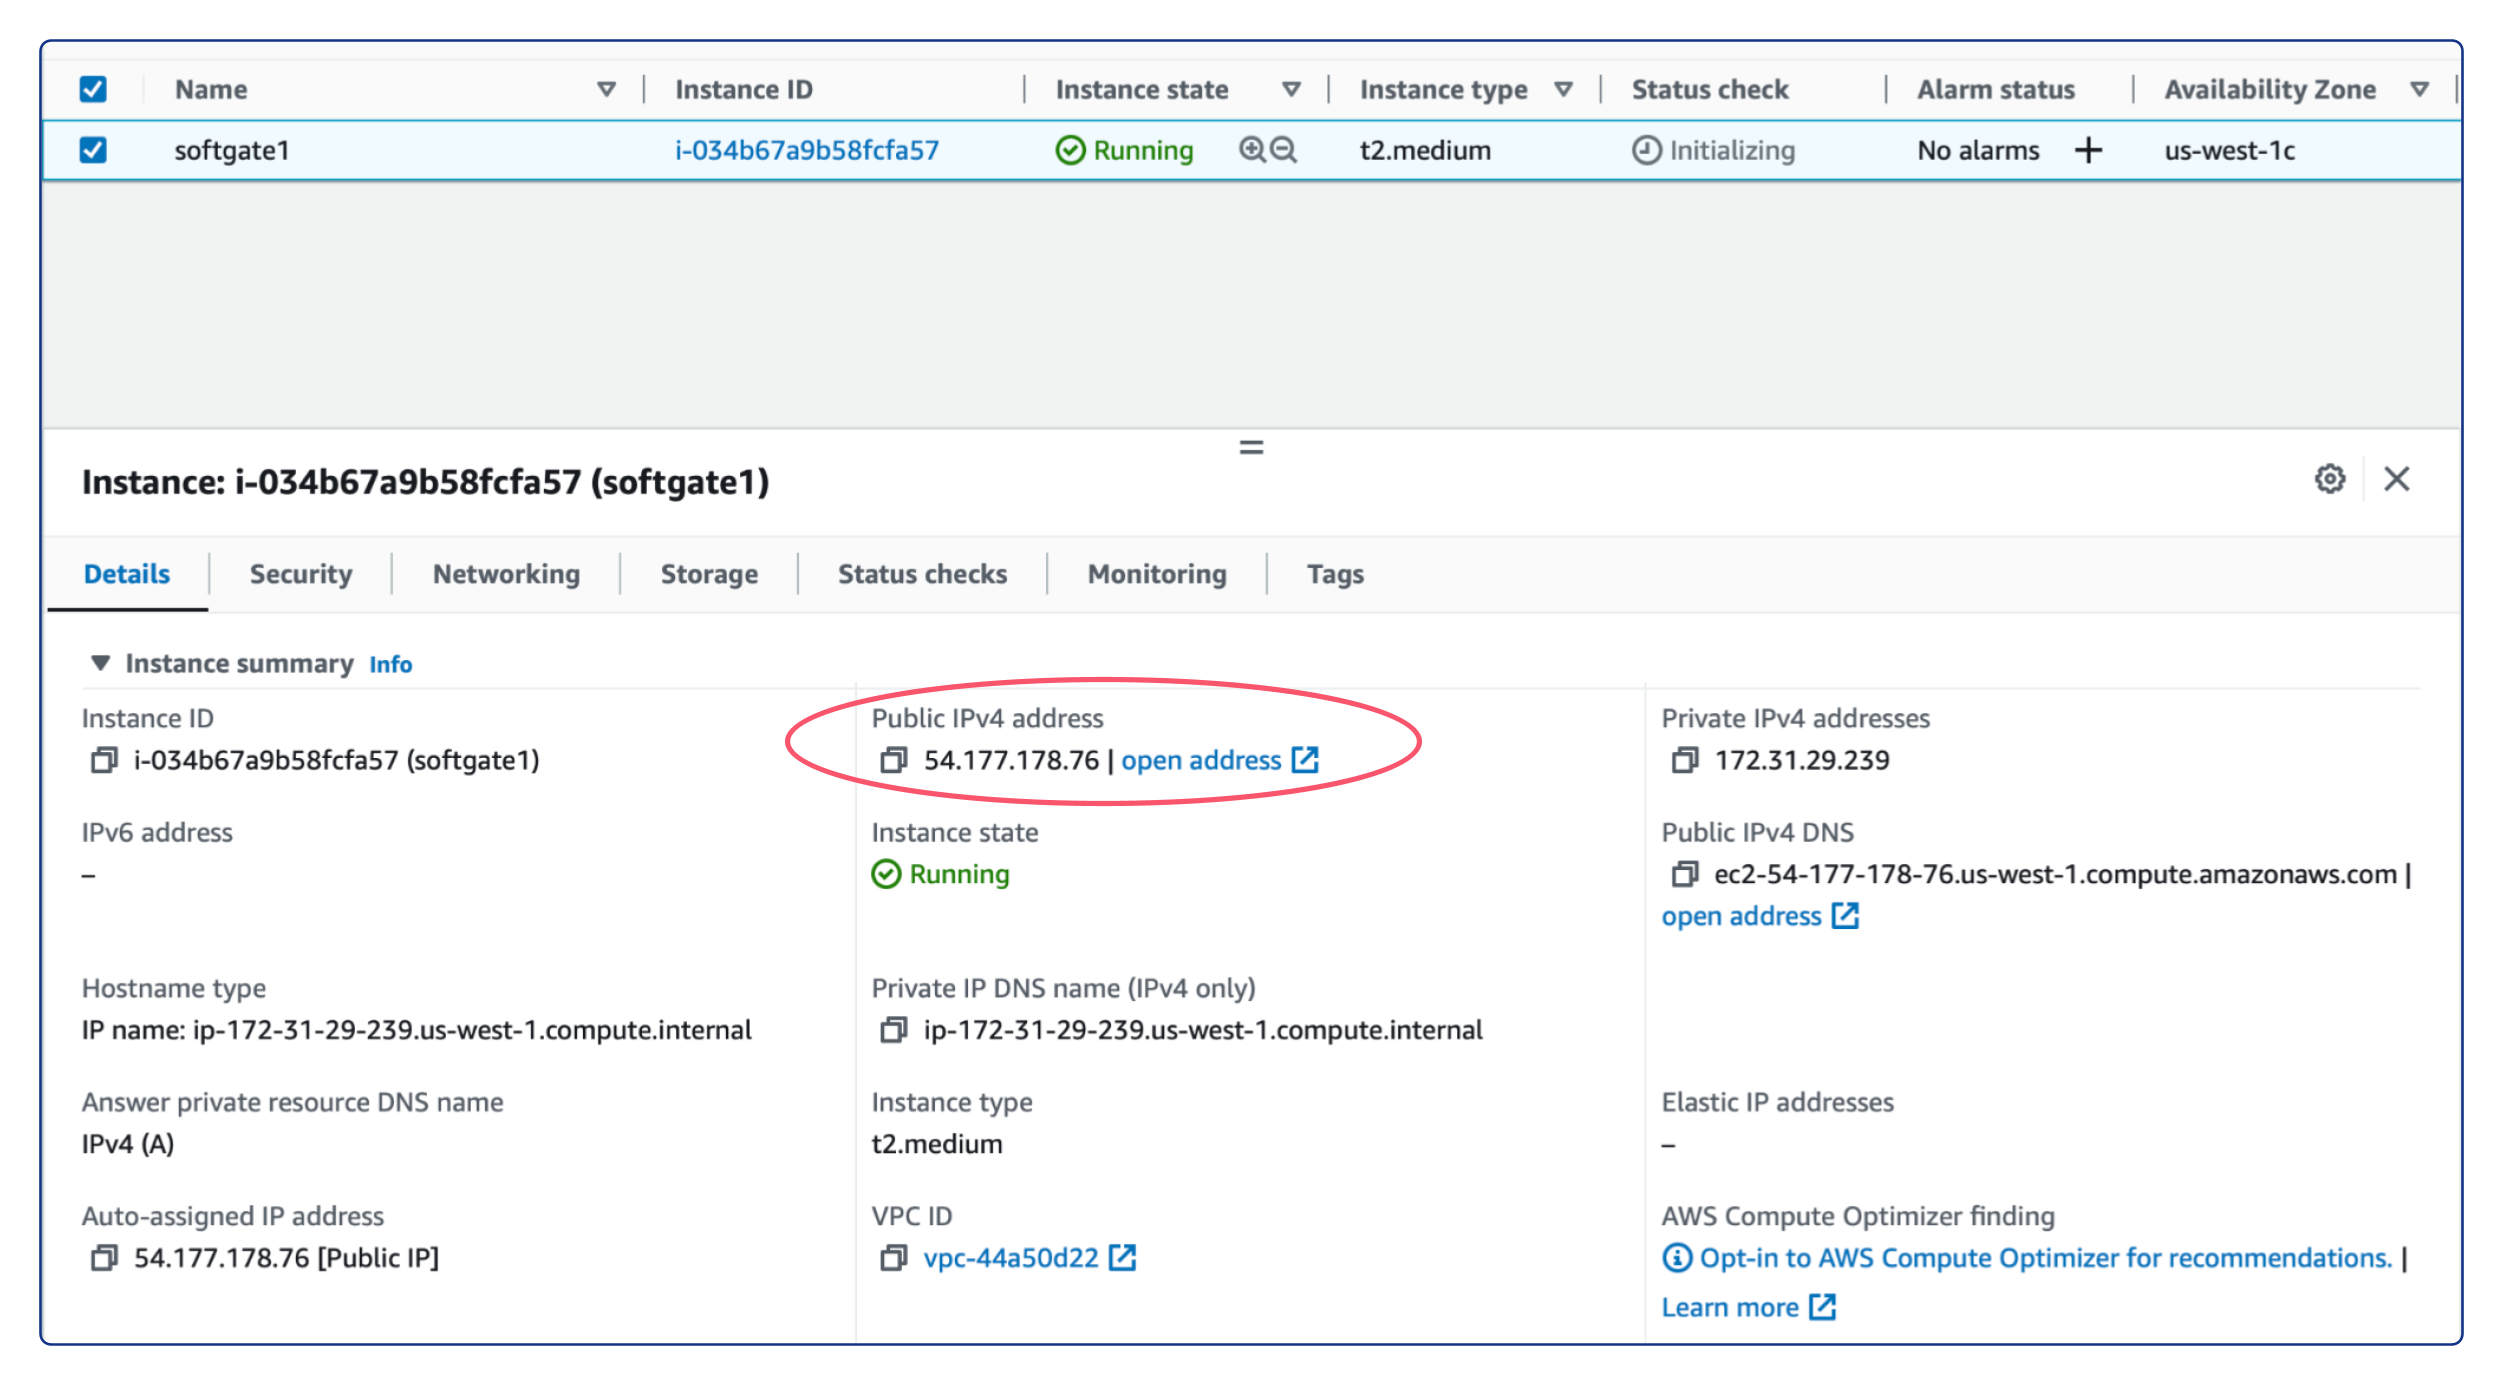
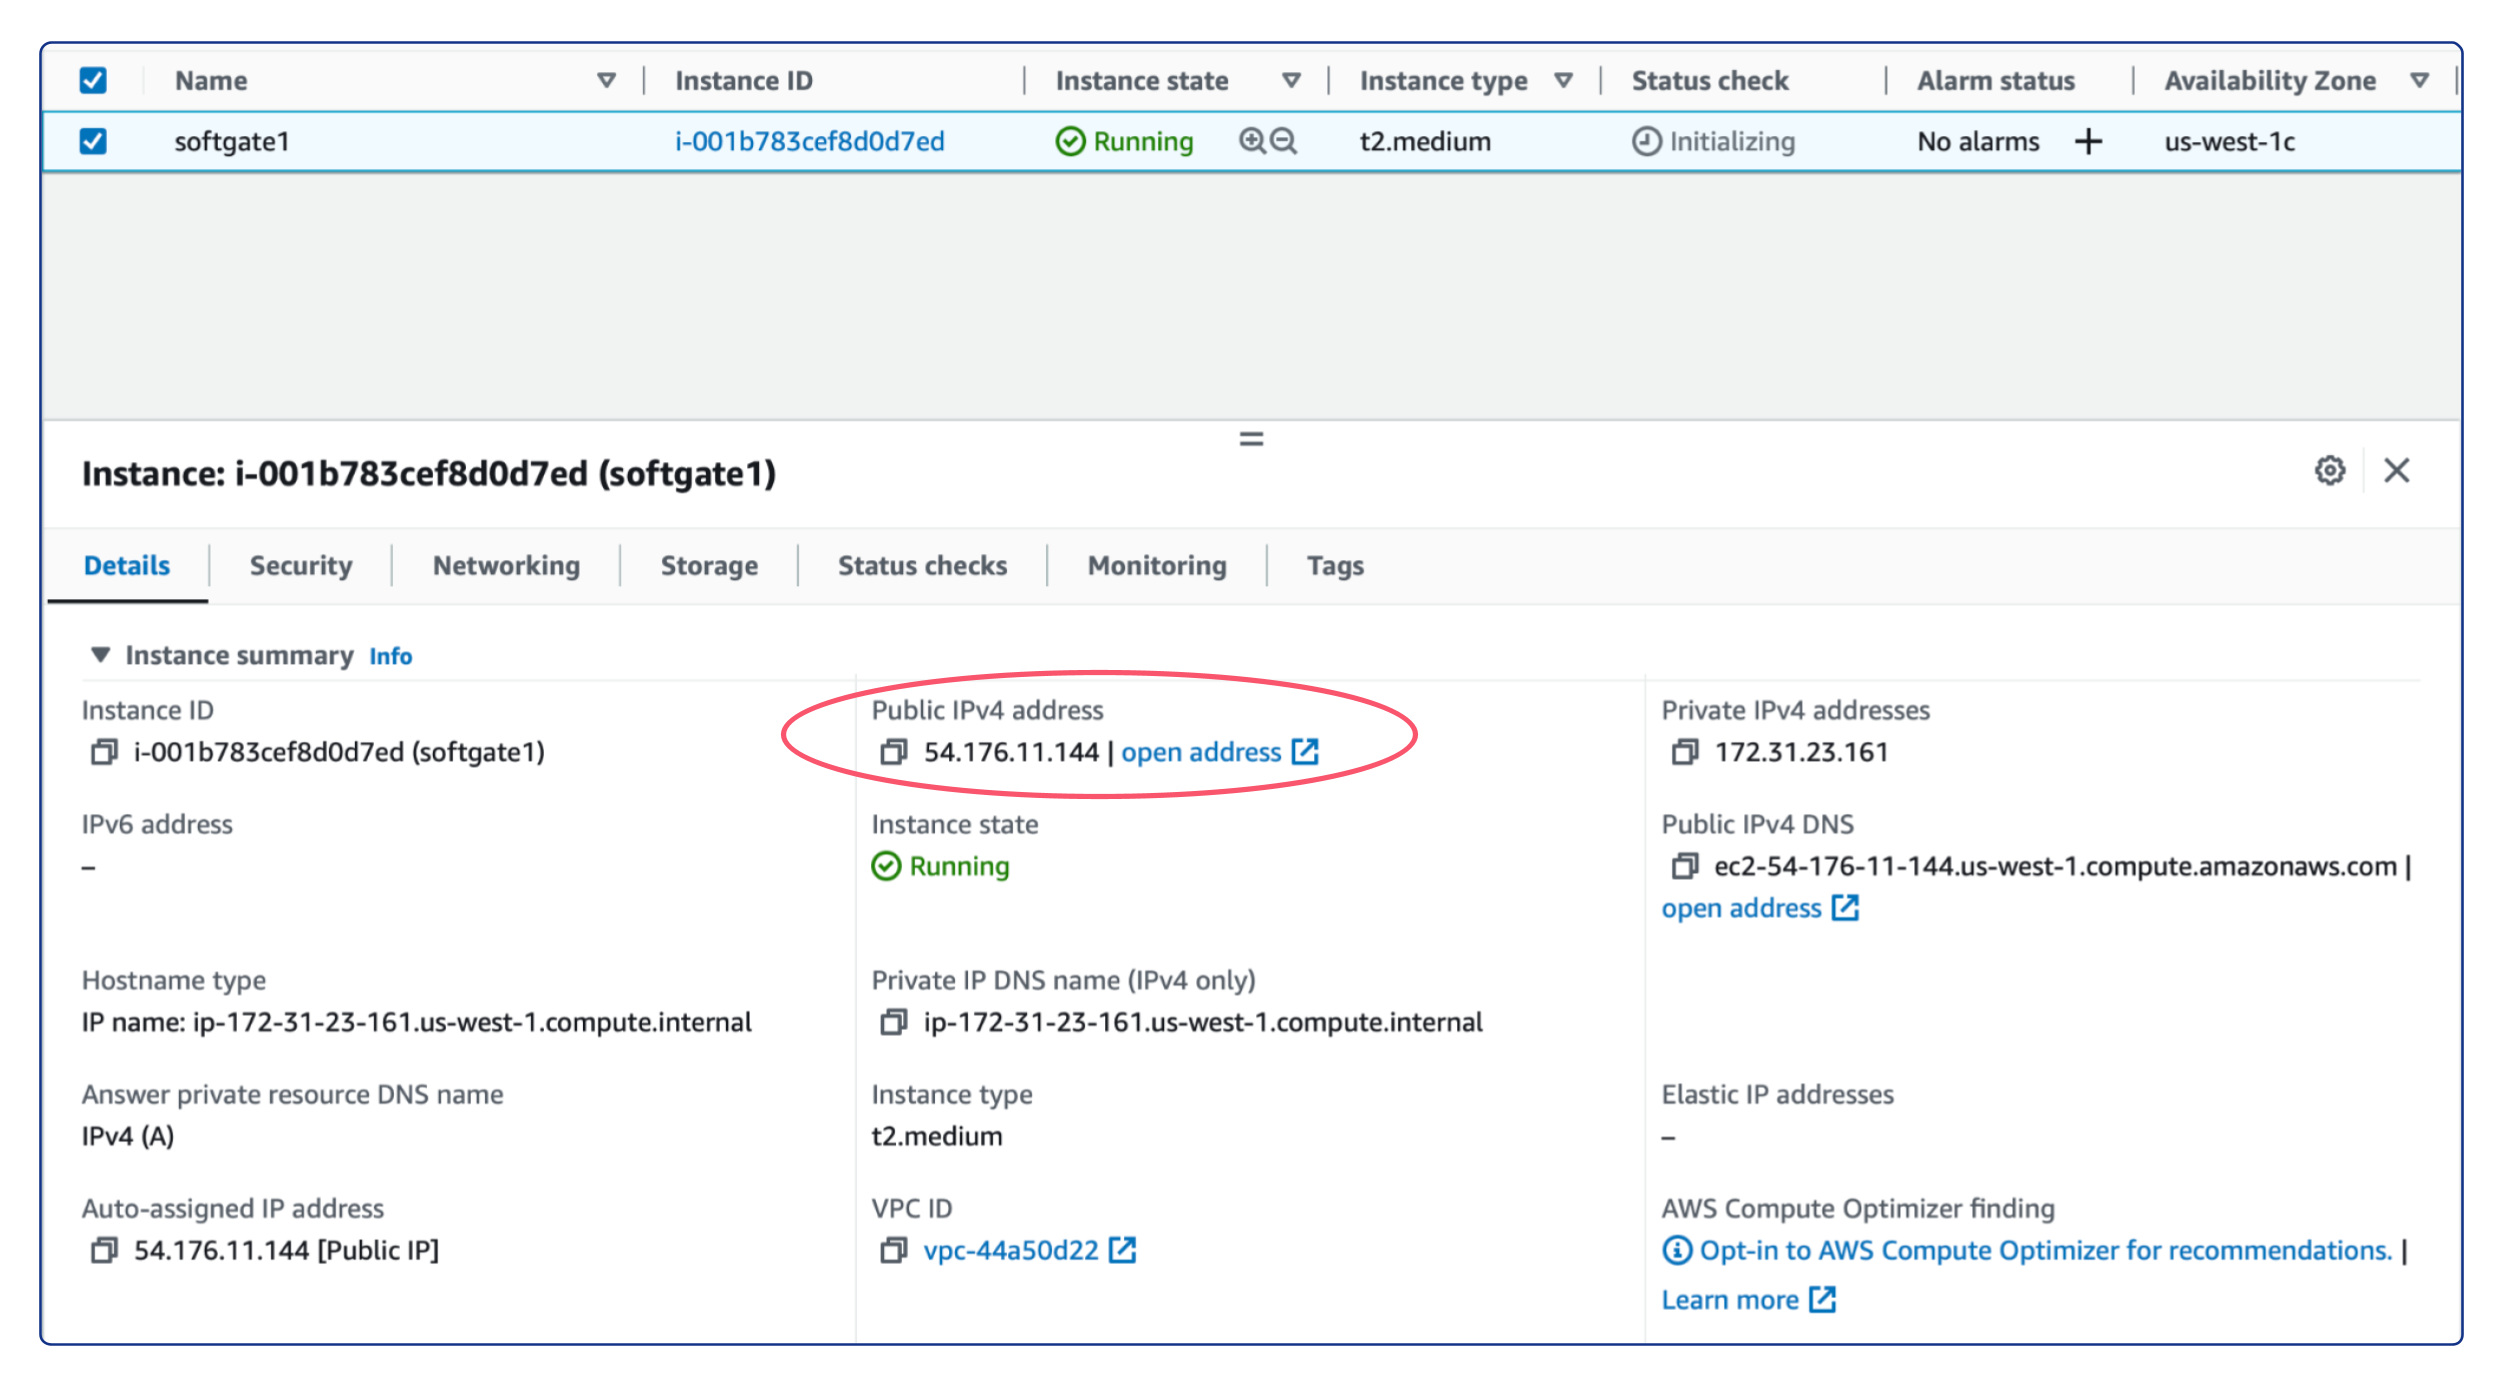
WIP

diff --git a/tutorials/aws-deploy-softgate.rst b/tutorials/aws-deploy-softgate.rst
@@ -27,7 +27,39 @@ After successfully deploying the EC2 instance, it is crucial to take note of its
 Configure Netris Controller
 ===========================
 
-In the Netris Controller, the initial step involves creating a new site. To do so, go to Netris Web Console → Net → Sites and click +Add. Here, create a new site by selecting "Dot1q Trunk" as the "Switch Fabric," inputting a descriptive name for the site, and specifying "65500" in the "Public ASN" field.
+Prior to defining a Softgate in the Netris Controller, certain pre-requisite steps must be completed.
+
+Pre-Requisite Steps
+-------------------
+
+In the Netris Controller, the initial step involves creating a new site. To do so, go to Netris Web Console → Net → Sites and click +Add. Here, create a new site by selecting "Dot1q Trunk" as the "Switch Fabric" inputting a descriptive name for the site, and specifying "65500" in the "Public ASN" field.
 
 .. image:: images/aws-netris-site-create.png
+  :align: center
+
+Subsequently, it is necessary to create a private subnet for Softgate management. To achieve this, navigate to the "IPAM" section under the "Net" tab and click the "+ Add" button located at the top-right corner. Next, input a unique "Prefix" for the new subnet, such as "10.255.255.0/24," and a descriptive "Name". From the "Tenant" dropdown menu, select the desired tenant name, and from the "Type" dropdown menu, select "Subnet". Then, select "management" from the "Purpose" dropdown menu and choose the appropriate site from the "Sites" dropdown menu.
+
+
+.. image:: images/aws-netris-ipam-mgmt.png
+  :align: center
+
+Following the creation of the private subnet for Softgate management, it is necessary to create another subnet with the "Purpose" of loopback. The "Prefix" for this subnet will be the Public IPv4 address of the AWS EC2 instance with a netmask length of /32. For instance, if the EC2 instance's IP address is 54.176.11.144, then the "Prefix" for the loopback subnet will be 54.176.11.144/32. However, unlike the subnet for Softgate management, an allocation for that "Prefix" must first be created before creating the subnet for loopback.
+
+.. image:: images/aws-netris-ipam-lo.png
+  :align: center
+
+Add Softgate into the Netris Controller
+---------------------------------------
+
+After completing all the pre-required steps, the next step is to create a Softgate in the Netris Controller. To do this, navigate to Net → Inventory and click on the +Add button. Provide a descriptive name for the Softgate in the "Name" field. From the "Tenant" dropdown menu, select the same tenant name that was used in the previous step when creating the subnets. From the "Type" dropdown menu, select "SoftGate", and choose the appropriate site from the "Sites" dropdown menu. For the "Main IP address" and "Management IP Address" fields, select "Assign automatically". Finally, add "int=eth0" into the "Description" field to specify that Netris should use the softgate's eth0 interface instead of the default bond0 interface that Netris Softgate Agent looks for.
+
+.. image:: images/aws-netris-create-sg.png
+  :align: center
+
+Install Netris Softgate Agent on EC2 instance
+---------------------------------------------
+
+After creating a softgate resource in Netris Controller, the next step is to install the softgate agent. This can be done by clicking the three vertical dots (⋮) on the right side of the created SoftGate node and selecting "Install Agent". Copy the one-line installer command to your clipboard and connect to your EC2 instance via SSH. Paste the copied command into the terminal and wait for the provisioning to finish. Once it's done, reboot the server.
+
+.. image:: images/aws-netris-provision-sg.png
   :align: center
